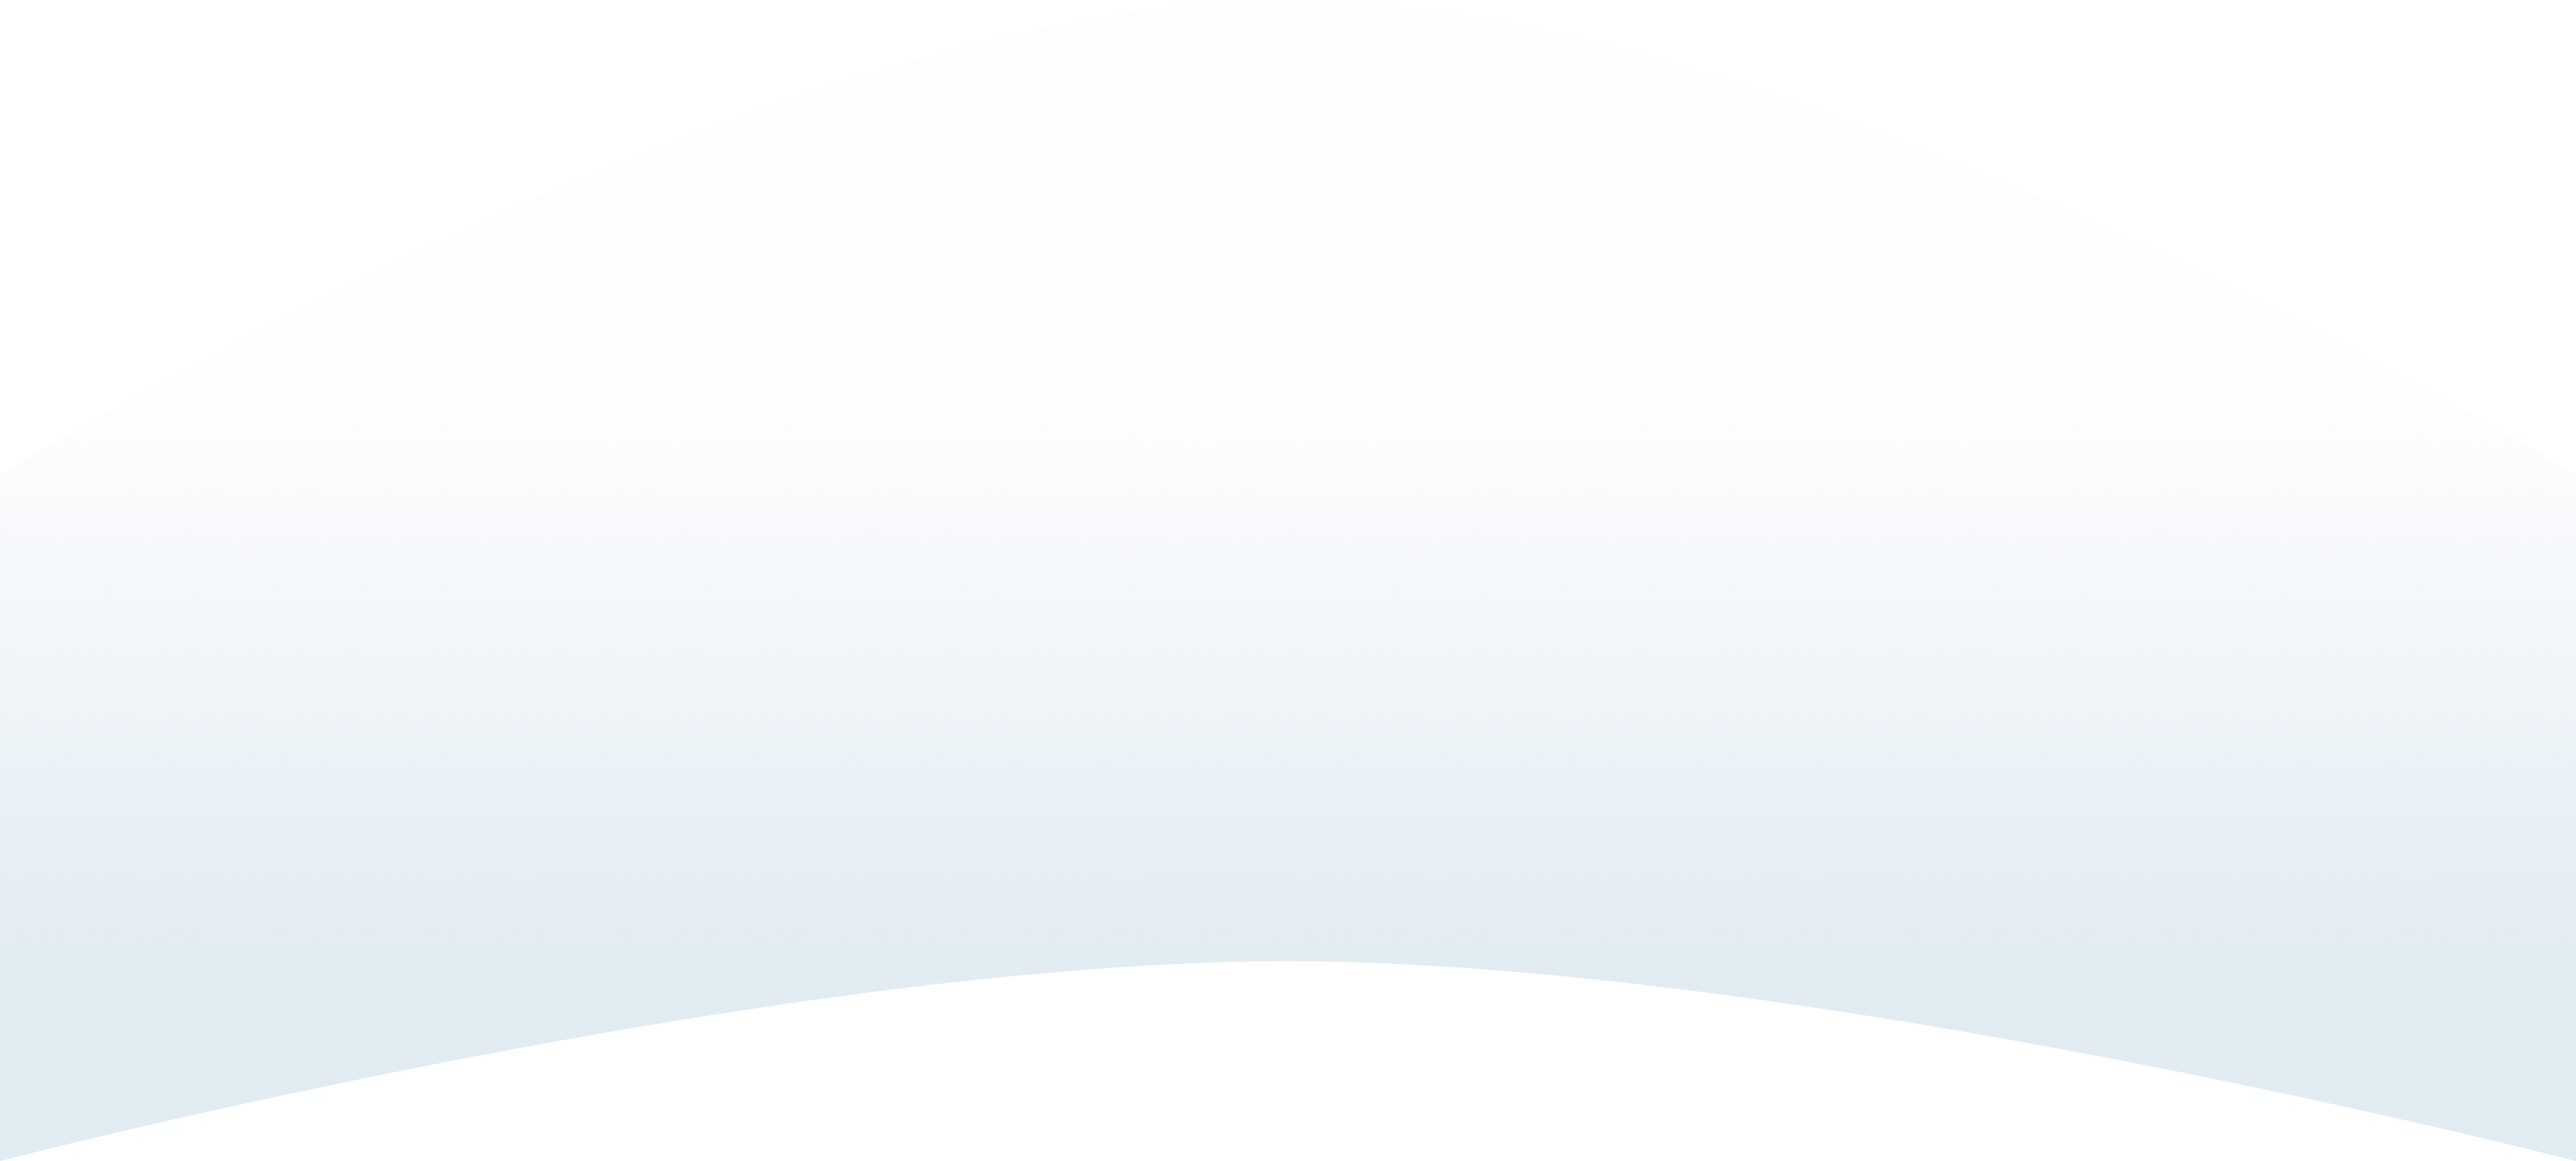
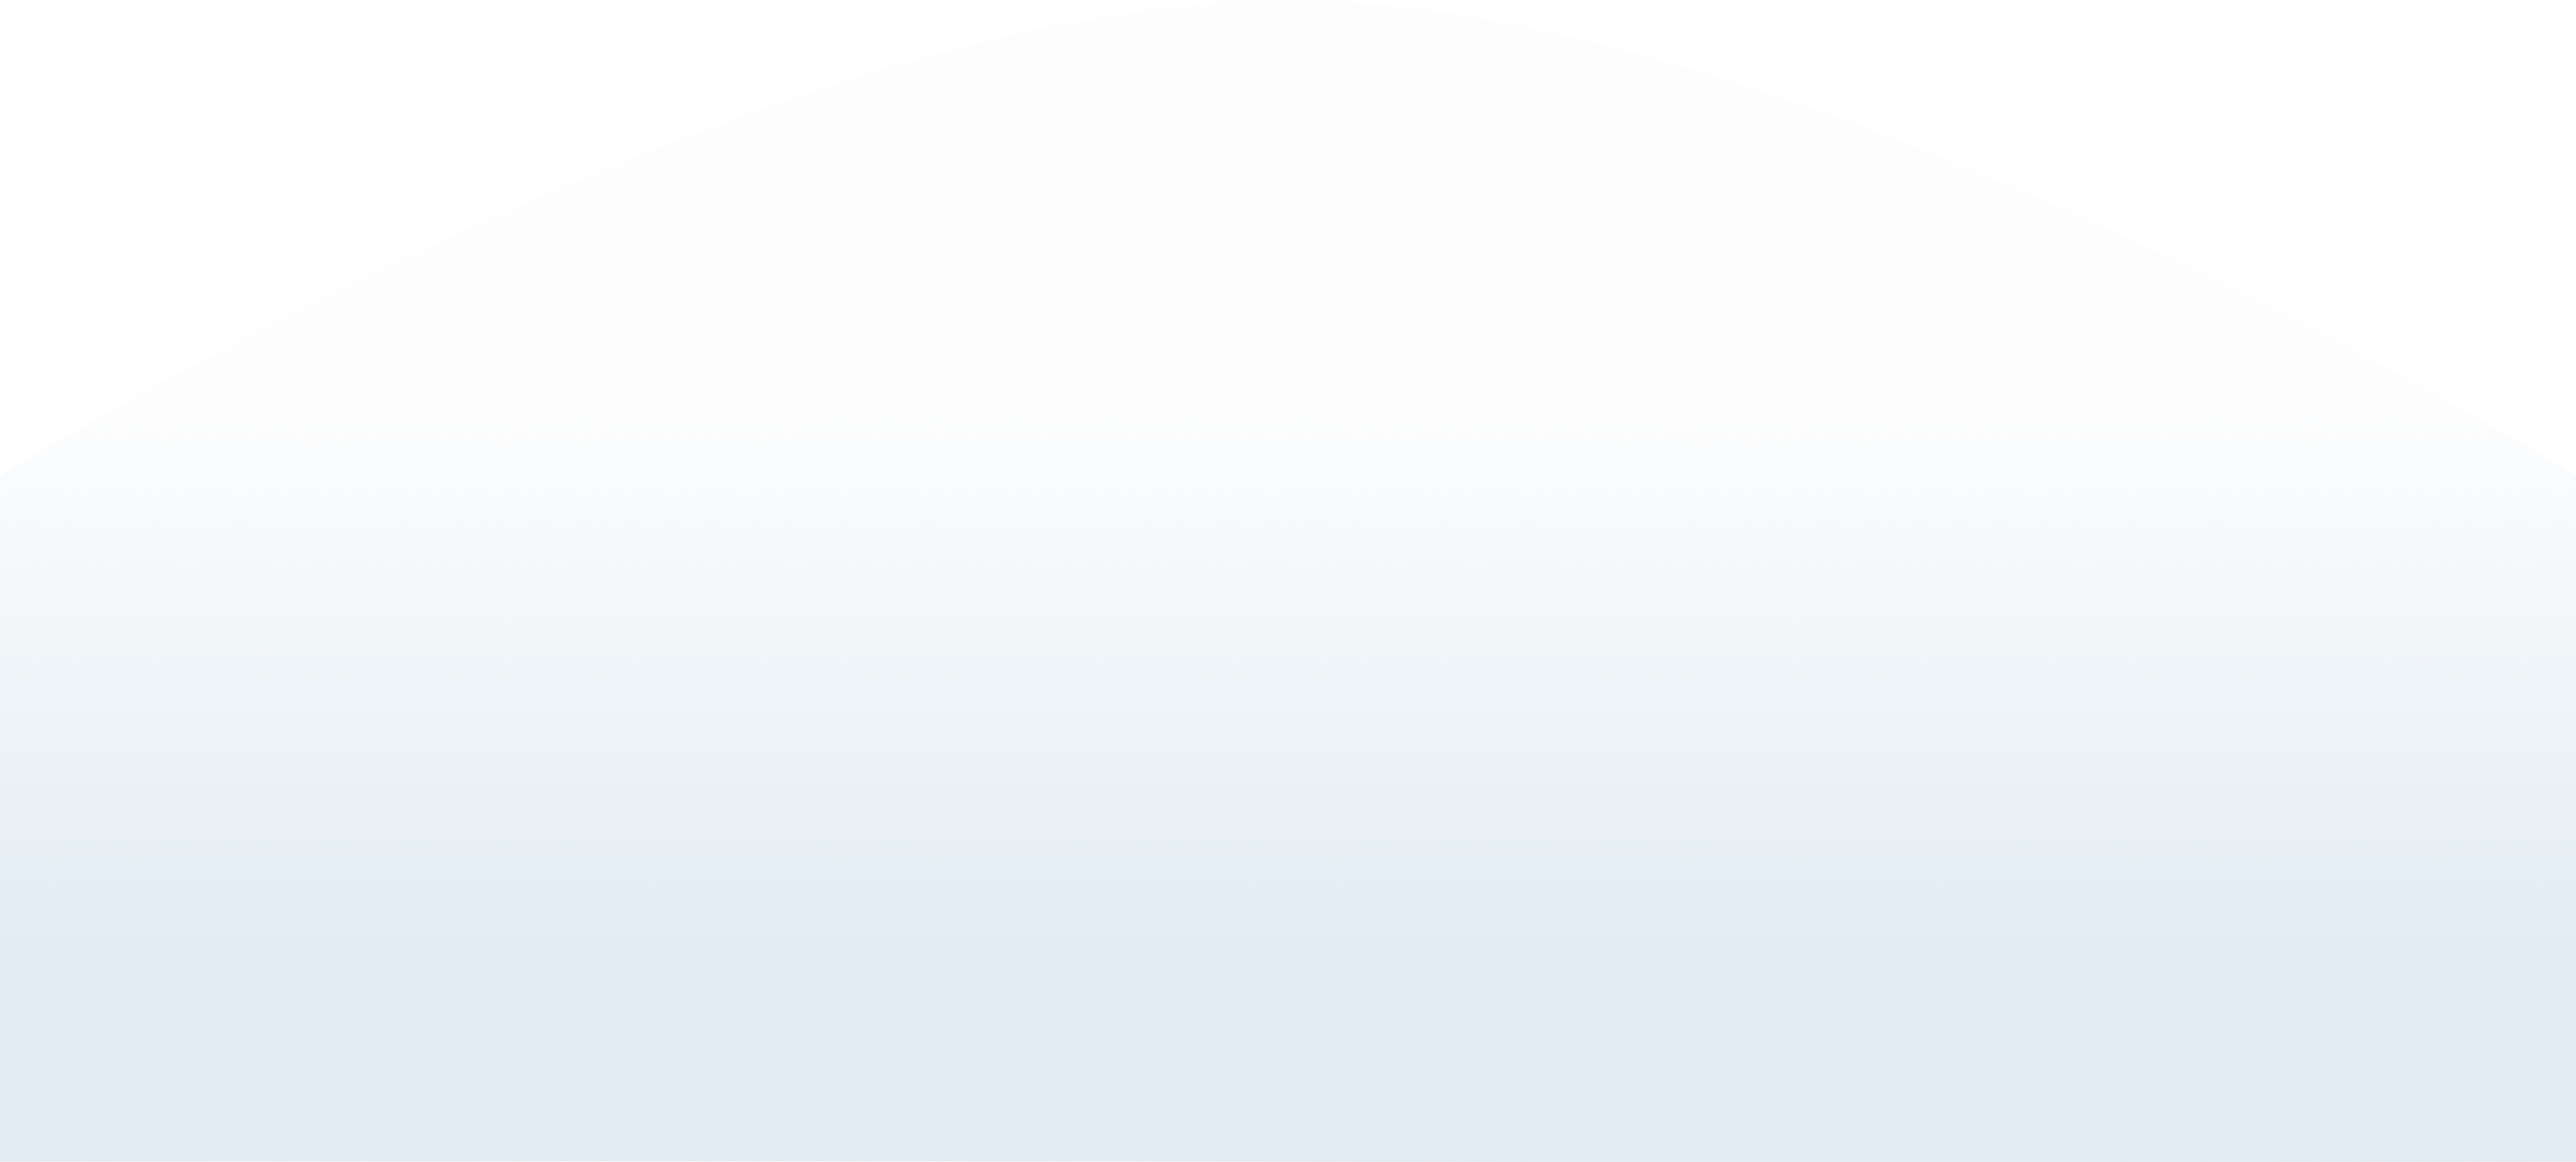
section spacings changed

Changed region(s): [[0.0, 0.8106, 1.0, 1.0]]

diff --git a/src/components/shared/footer/Footer.tsx b/src/components/shared/footer/Footer.tsx
@@ -2,24 +2,13 @@
 
 import Image from "next/image";
 import logo from "@/assets/logo.svg";
-import { FaFacebookF, FaXTwitter, FaYoutube } from "react-icons/fa6";
 import { IoLogoInstagram } from "react-icons/io";
+import { IoLogoTiktok } from "react-icons/io5";
+import { FaSnapchatGhost } from "react-icons/fa";
 
 const Footer = () => {
   return (
-    <footer className="relative text-white px-5 mt-32 lg:mt-48 xl:mt-40 flex flex-col justify-end">
-      {/* Less rounded on small (`sm`) screens */}
-      <div
-        className="absolute bottom-0 left-0 w-full h-[80vh] md:hidden bg-secondary"
-        style={{ clipPath: "ellipse(100% 85% at 50% 100%)" }}
-      ></div>
-
-      {/* More rounded on `md`, `lg`, `xl` screens */}
-      <div
-        className="absolute bottom-0 left-0 w-full h-[95vh] hidden md:block xl:h-[90vh] 2xl:h-[70vh] bg-secondary"
-        style={{ clipPath: "ellipse(65% 70% at 50% 100%)" }}
-      ></div>
-
+    <footer className="relative bg-secondary text-white px-5 mt-32 flex flex-col justify-end">
       {/* Footer Content */}
       <div className="relative z-10 flex flex-col items-center text-center space-y-8 pb-10">
         <div className="container mx-auto flex flex-col lg:flex-row justify-between items-center lg:items-end space-y-6 text-center">
@@ -39,14 +28,9 @@ const Footer = () => {
                 href="#"
                 className="text-white border rounded-full p-2 transition"
               >
-                <FaFacebookF className="w-6 h-6" />
+                <FaSnapchatGhost className="w-6 h-6" />
               </a>
-              <a
-                href="#"
-                className="text-white border rounded-full p-2 transition"
-              >
-                <FaXTwitter className="w-6 h-6" />
-              </a>
+
               <a
                 href="#"
                 className="text-white border rounded-full p-2 transition"
@@ -57,7 +41,7 @@ const Footer = () => {
                 href="#"
                 className="text-white border rounded-full p-2 transition"
               >
-                <FaYoutube className="w-6 h-6" />
+                <IoLogoTiktok className="w-6 h-6" />
               </a>
             </div>
           </div>

diff --git a/src/components/faq/FaqBanner.tsx b/src/components/faq/FaqBanner.tsx
@@ -9,12 +9,12 @@ const FaqBanner = () => {
       {" "}
       <SharedBanner title="FAQ’s" breadcrumb="FAQ">
         {/* Main Content - Absolute for lg and xl */}
-        <div className="xl:px-10 space-y-10 w-full py-20">
+        <div className="xl:px-10 space-y-10 w-full md:pt-20">
           <SectionHeader title="Frequently asked questions ?" />
           <p className="text-center text-gray-600 mt-4">
             We understand you may have questions! Below are answers to some of
             the most common inquiries about our prize draws, ticket purchases,
-            and more.s
+            and more.
           </p>
         </div>
       </SharedBanner>

diff --git a/src/components/aboutUs/AboutUsPage.tsx b/src/components/aboutUs/AboutUsPage.tsx
@@ -17,13 +17,6 @@ const AboutUsPage = () => {
           opportunity.
         </h2>
 
-        <p className="text-center text-gray-600 mt-4">
-          Our mission is simple: to create meaningful impact while offering
-          something of value in return. Every day, you can explore and purchase
-          our digital products, with a portion of proceeds supporting incredible
-          charitable causes.
-        </p>
-
         <p className="text-center text-gray-600 mt-3">
           Our mission is simple: to create meaningful impact while offering
           something of value in return. Every day, you can explore and purchase

diff --git a/src/components/shop/ShopPrize.tsx b/src/components/shop/ShopPrize.tsx
@@ -3,6 +3,7 @@ import first from "@/assets/home/first.png";
 import second from "@/assets/home/second.png";
 import third from "@/assets/home/third.png";
 import { SectionHeader } from "../shared/header/SectionHeader";
+
 const prizes = [
   {
     id: 1,
@@ -35,7 +36,7 @@ const prizes = [
 const ShopPrize = () => {
   return (
     <div className="container mx-auto px-4 space-y-16">
-      <SectionHeader title="Explore whats inside." />
+      <SectionHeader title="Explore what’s inside." />
       <div className="grid grid-cols-1 sm:grid-cols-2 lg:grid-cols-3 gap-6">
         {prizes.map((prize) => (
           <div

diff --git a/src/components/shop/ShopPack.tsx b/src/components/shop/ShopPack.tsx
@@ -27,6 +27,7 @@ const ShopPack = () => {
       freeEntries: "8 FREE ENTRIES",
     },
   ];
+
   return (
     <div className="container mx-auto py-12 space-y-24 px-5">
       {" "}
@@ -53,7 +54,7 @@ const ShopPack = () => {
             </p>
 
             {/* Free Entries */}
-            <p className="text-4xl lg:text-5xl xl:text-4xl 2xl:text-[50px] font-museomoderno font-semibold mt-6">
+            <p className="text-4xl lg:text-5xl xl:text-4xl 2xl:text-[50px] h-16 font-museomoderno font-semibold mt-6">
               {pack.freeEntries}
             </p>
 

diff --git a/src/components/home/ChoosePack.tsx b/src/components/home/ChoosePack.tsx
@@ -35,7 +35,7 @@ const PricingSection = () => {
     <div className="container mx-auto py-12 space-y-24 px-5">
       {/* Section Header */}
       <SectionHeader
-        title="Choose Your Pack"
+        title="Choose your pack."
         subtitle="Your chance to win is just a few clicks away. Remember, every purchase also supports the Humpty Dumpty Foundation so you’re making a difference while chasing your dreams."
       />
 

diff --git a/src/components/home/Banner.tsx b/src/components/home/Banner.tsx
@@ -17,7 +17,7 @@ const Banner = () => {
         backgroundPosition: "center",
         backgroundRepeat: "no-repeat",
       }}
-      className="min-h-[180vh] sm:min-h-[160vh] lg:min-h-[180vh] xl:min-h-[130vh] mt-10 xl:mt-20"
+      className=" mt-10 xl:mt-20 py-10"
     >
       <div className="container flex flex-col-reverse xl:flex-row items-center justify-between mx-auto gap-10 lg:gap-16">
         {/* Left Side Section */}

diff --git a/src/components/home/CharityPartner.tsx b/src/components/home/CharityPartner.tsx
@@ -19,7 +19,7 @@ const CharityPartner = () => {
   return (
     <div className="container mx-auto px-4 py-12">
       {/* Section Header */}
-      <SectionHeader title="Our Charity Partner" />
+      <SectionHeader title="Our charity partner." />
 
       {/* Charity Info */}
       <div className="grid grid-cols-1 lg:grid-cols-2 gap-20 items-center mt-10">

diff --git a/src/app/(withCommonLayout)/faq/page.tsx b/src/app/(withCommonLayout)/faq/page.tsx
@@ -4,9 +4,9 @@ import React from "react";
 
 const Faq = () => {
   return (
-    <div className="min-h-screen">
+    <div className="">
       <FaqBanner />
-      <div className="container mx-auto mt-[350px] space-y-20">
+      <div className="container mx-auto mt-[80px] lg:mt-[330px]">
         <Faqs />
       </div>
     </div>

diff --git a/src/components/shared/navbar/Navbar.tsx b/src/components/shared/navbar/Navbar.tsx
@@ -80,7 +80,7 @@ const Navbar = () => {
             className="text-base font-semibold leading-[25px]"
             href="/about-us"
           >
-            About Us
+            About us
           </Link>
           <Link className="text-base font-semibold leading-[25px]" href="/shop">
             Shop

diff --git a/src/app/(withCommonLayout)/shop/page.tsx b/src/app/(withCommonLayout)/shop/page.tsx
@@ -8,7 +8,7 @@ const Shop = () => {
   return (
     <div className="min-h-screen">
       <ShopBanner />
-      <div className="container mx-auto mt-[300px] space-y-20">
+      <div className="container mx-auto lg:mt-[300px] space-y-20">
         <ShopPack />
         <ShopPrize />
       </div>

diff --git a/src/components/home/Prize.tsx b/src/components/home/Prize.tsx
@@ -6,7 +6,7 @@ import { SectionHeader } from "../shared/header/SectionHeader";
 const prizes = [
   {
     id: 1,
-    title: "Grand prize",
+    title: "GRAND PRIZE",
     date: "23 June 2025",
     code: "P58964T1483",
     description: "Audi A3 valued at $50,000 thanks to Audi Australia.",
